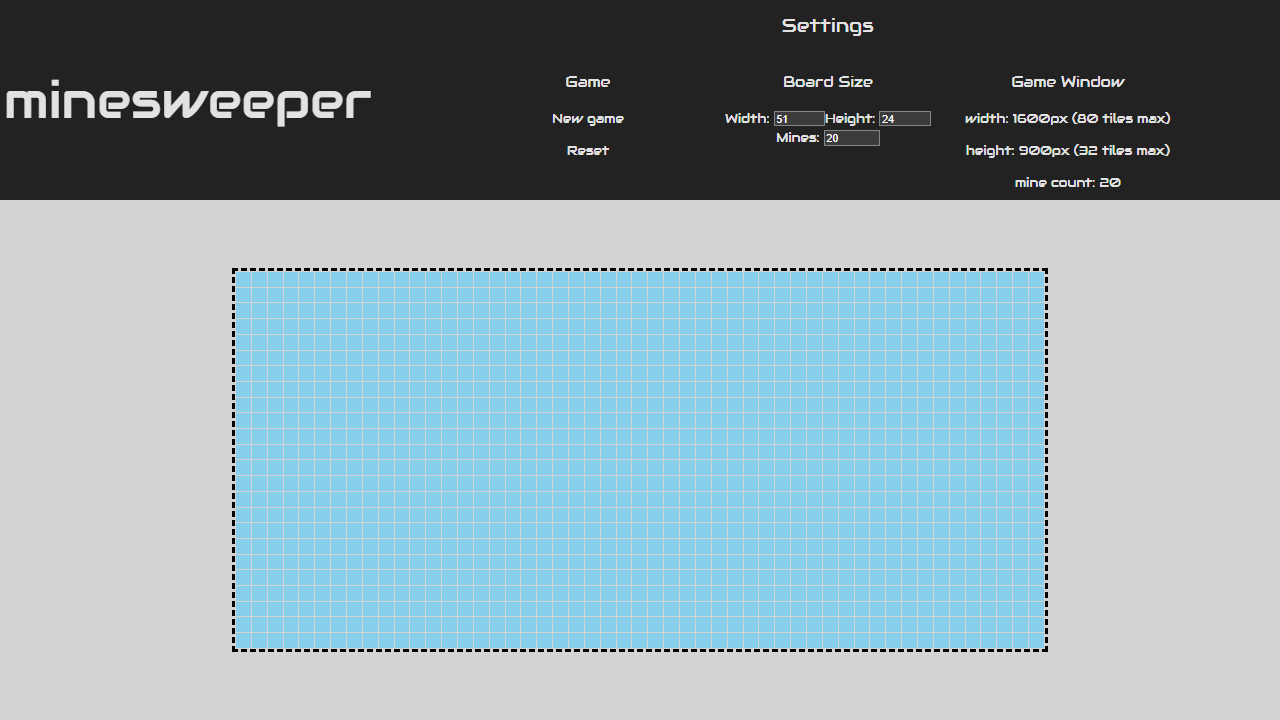
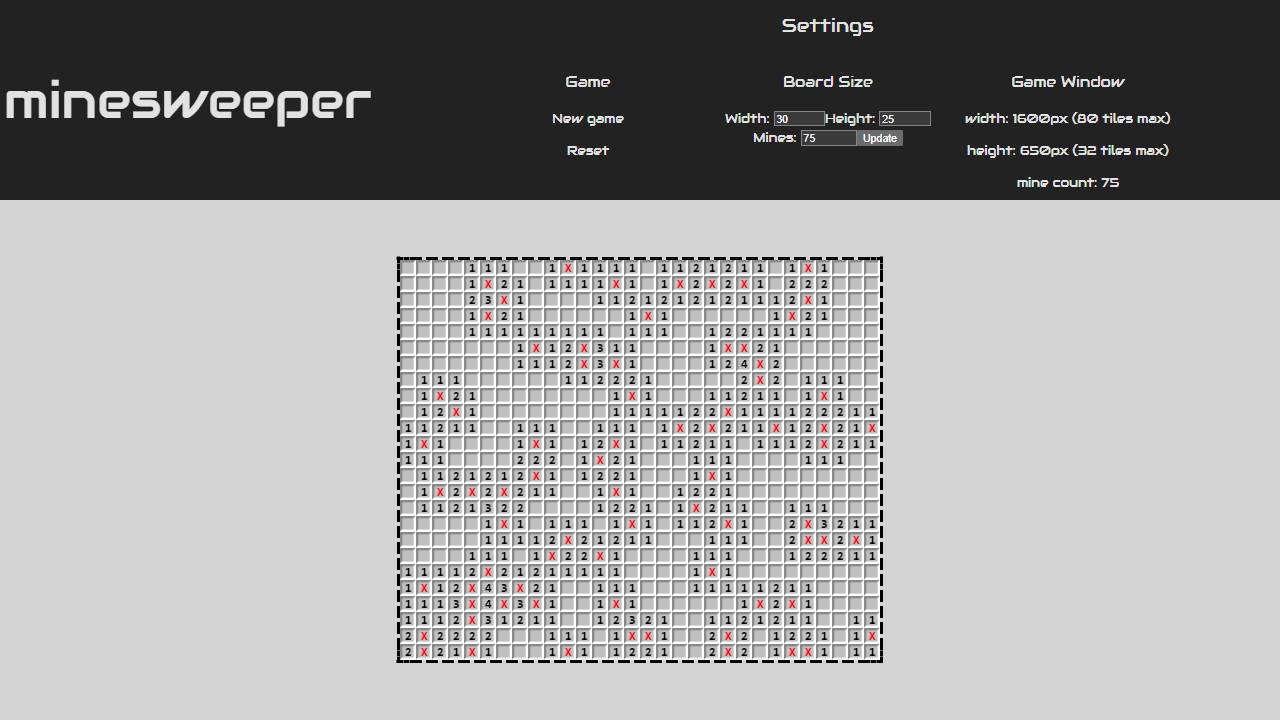
updated board generation in context, added remaining images for Tiles, fixed bugs around updating board size

diff --git a/src/store/GlobalContext.jsx b/src/store/GlobalContext.jsx
@@ -2,8 +2,15 @@ import React, { useState, createContext, useEffect } from 'react';
 
 // creates an array with a random distribution of mines
 function generateMinesweeperBoard(width, height, mineCount) {
-  console.log('generating array: ', width, height, mineCount);
+  // board values:
+  // 0 - 8 -> number of mines near cell
+  // x -> mine
+  // f -> flagged cell (no mine)
+  // xf -> flagged cell (mine)
+
   const newBoard = [];
+
+  console.log('generating empty array: ', width, height, mineCount);
   for (let row = 0; row < height; row++) {
     const column = [];
     for (let col = 0; col < width; col++) {
@@ -12,24 +19,55 @@ function generateMinesweeperBoard(width, height, mineCount) {
     newBoard.push(column);
   }
 
-  console.log('generated empty array: ' + newBoard);
+  console.log('adding mines');
   for (let i = 0; i < mineCount; i++) {
     let row = Math.floor(Math.random() * height);
     let col = Math.floor(Math.random() * width);
 
-    console.log('generating mine ' + i);
-    while (newBoard[row][col] !== 0) {
+    while (typeof newBoard[row][col] !== 'number') {
       row = Math.floor(Math.random() * height);
       col = Math.floor(Math.random() * width);
-      console.log(
-        `checking cell ${row}:${col}, value is ${newBoard[row][col]}`
-      );
     }
 
-    newBoard[row][col] = 1;
+    newBoard[row][col] = 'x';
   }
 
-  console.log('newBoard generated');
+  const checkSurroundingCells = (row, col) => {
+    const numRows = newBoard.length;
+    const numColumns = newBoard[0].length;
+    let mineCount = 0;
+
+    for (let rowOffset = row - 1; rowOffset <= row + 1; rowOffset++) {
+      for (let colOffset = col - 1; colOffset <= col + 1; colOffset++) {
+        // Check if the offsets are within bounds
+        if (
+          rowOffset >= 0 &&
+          rowOffset < numRows &&
+          colOffset >= 0 &&
+          colOffset < numColumns
+        ) {
+          if (!(rowOffset === row && colOffset === col)) {
+            if (newBoard[rowOffset][colOffset] === 'x') {
+              mineCount++;
+            }
+          }
+        }
+      }
+    }
+
+    return mineCount;
+  };
+
+  console.log('updating cell mine counts');
+  for (let row = 0; row < height; row++) {
+    for (let col = 0; col < width; col++) {
+      if (newBoard[row][col] !== 'x') {
+        newBoard[row][col] = checkSurroundingCells(row, col);
+      }
+    }
+  }
+
+  console.log('board generated: ', newBoard);
   return newBoard;
 }
 
@@ -58,9 +96,15 @@ export const GlobalContextProvider = ({ children }) => {
     setBoard(generateMinesweeperBoard(width, height, mineCount));
   };
 
-  const getCellValue = (row, col) => {
-    return board[row][col];
+  const getTileValue = (row, col) => {
+    // catches issues with out of sync tile updates
+    if (row < boardHeight && col < boardWidth) {
+      return board[row][col];
+    }
+    return null;
   };
+
+  const handleTileSelected = (row, col) => {};
 
   const globalStateValue = {
     board,
@@ -71,7 +115,7 @@ export const GlobalContextProvider = ({ children }) => {
     boardMineCount,
     setBoardMineCount,
     generateNewBoard,
-    getCellValue,
+    getTileValue,
   };
 
   return (

diff --git a/src/components/Tile.jsx b/src/components/Tile.jsx
@@ -1,10 +1,39 @@
+import { useContext, useEffect, useState } from 'react';
+
 import styled from 'styled-components';
 
-import tileImg from '../assets/tile.jpg';
-import { useContext } from 'react';
 import GlobalContext from '../store/GlobalContext';
 
-const TileStyle = styled.td`
+// tile images
+import tileEmpty from '../assets/tile.jpg';
+import tile0 from '../assets/0.png';
+import tile1 from '../assets/1.png';
+import tile2 from '../assets/2.png';
+import tile3 from '../assets/3.png';
+import tile4 from '../assets/4.png';
+import tile5 from '../assets/5.png';
+import tile6 from '../assets/6.png';
+import tile7 from '../assets/7.png';
+import tile8 from '../assets/8.png';
+import tileX from '../assets/x.png';
+import tileF from '../assets/f.png';
+
+const imageUrls = {
+  0: tile0,
+  1: tile1,
+  2: tile2,
+  3: tile3,
+  4: tile4,
+  5: tile5,
+  6: tile6,
+  7: tile7,
+  8: tile8,
+  x: tileX,
+  f: tileF,
+  default: tileEmpty,
+};
+
+const TileContainer = styled.td`
   margin: 0px;
   padding: 0px;
   width: ${({ $size }) => $size}px;
@@ -21,21 +50,32 @@ const TileStyle = styled.td`
 `;
 
 function Tile({ tileSize, scale, row, column }) {
-  const { getCellValue } = useContext(GlobalContext);
+  const { getTileValue } = useContext(GlobalContext);
 
+  const [cellValue, setCellValue] = useState(getTileValue(row, column));
+
+  // calculate scaled tile size
   const SIZE = tileSize * scale;
-  // const value = getCellValue(row, column);
 
+  // set image url
+  const imageUrl = imageUrls[cellValue] || imageUrls.default;
+
+  // trigger cell action in context
   const handleClick = e => {
     e.preventDefault();
 
-    console.log(value);
+    console.log(cellValue);
   };
 
+  // updates cell when board updates
+  useEffect(() => {
+    setCellValue(getTileValue(row, column));
+  }, [getTileValue]);
+
   return (
-    <TileStyle $size={SIZE} onClick={handleClick}>
-      <img src={tileImg} />
-    </TileStyle>
+    <TileContainer $imgUrl={imageUrl} $size={SIZE} onClick={handleClick}>
+      <img src={imageUrl} />
+    </TileContainer>
   );
 }
 

diff --git a/src/components/Game.jsx b/src/components/Game.jsx
@@ -19,14 +19,12 @@ const Container = styled.table.attrs(
   table-layout: fixed;
 `;
 
-function Game({ scale, tileSize, mineCount }) {
-  const { board, boardMineCount } = useContext(GlobalContext);
+function Game({ scale, tileSize }) {
+  const { board } = useContext(GlobalContext);
   const [boardJsx, setBoardJsx] = useState([]);
 
   const boardWidth = board[0].length;
   const boardHeight = board.length;
-
-  console.log('width: ' + boardWidth + ' height: ' + boardHeight);
 
   // generate game board
   useEffect(() => {
@@ -35,7 +33,6 @@ function Game({ scale, tileSize, mineCount }) {
     }
 
     console.log('displaying board');
-
     const boardJsx = [];
 
     for (let row = 0; row < boardHeight; row++) {
@@ -57,8 +54,8 @@ function Game({ scale, tileSize, mineCount }) {
     setBoardJsx(boardJsx);
   }, [board]);
 
-  console.log(board);
-  console.log(boardJsx);
+  // console.log(board);
+  // console.log(boardJsx);
 
   return (
     <Container

diff --git a/README.md b/README.md
@@ -2,10 +2,14 @@
 
 ![thumbnail](/thumbnail.jpg)
 
-**Week 8: 11/1 - 11/18**
+**Week 8 + 9: 11/12 - 11/25**
 
 A recreation of Minesweeper in React
 
 **Goals:** Create simple Minesweeper game with adjustable game width, height, and mine count.
 
 11/14: Created initial project, built basic UI layout and set up game parameters in changable state bound inputs. Built Game and Tile components and begain rendering game board. Built useWindowDimensions hook for detecting current window size.
+
+11/17: Transferred state into GlobalContext, updated components to work with context, modified board update behavior (added update button instead of dynamic updates), and added default time image.
+
+11/19: Overhauled board generation to calculate cell mine count values, added remaining images for tiles and updated Tile component to display correct image for it's value. Fixed bugs around board resizing and updating.
